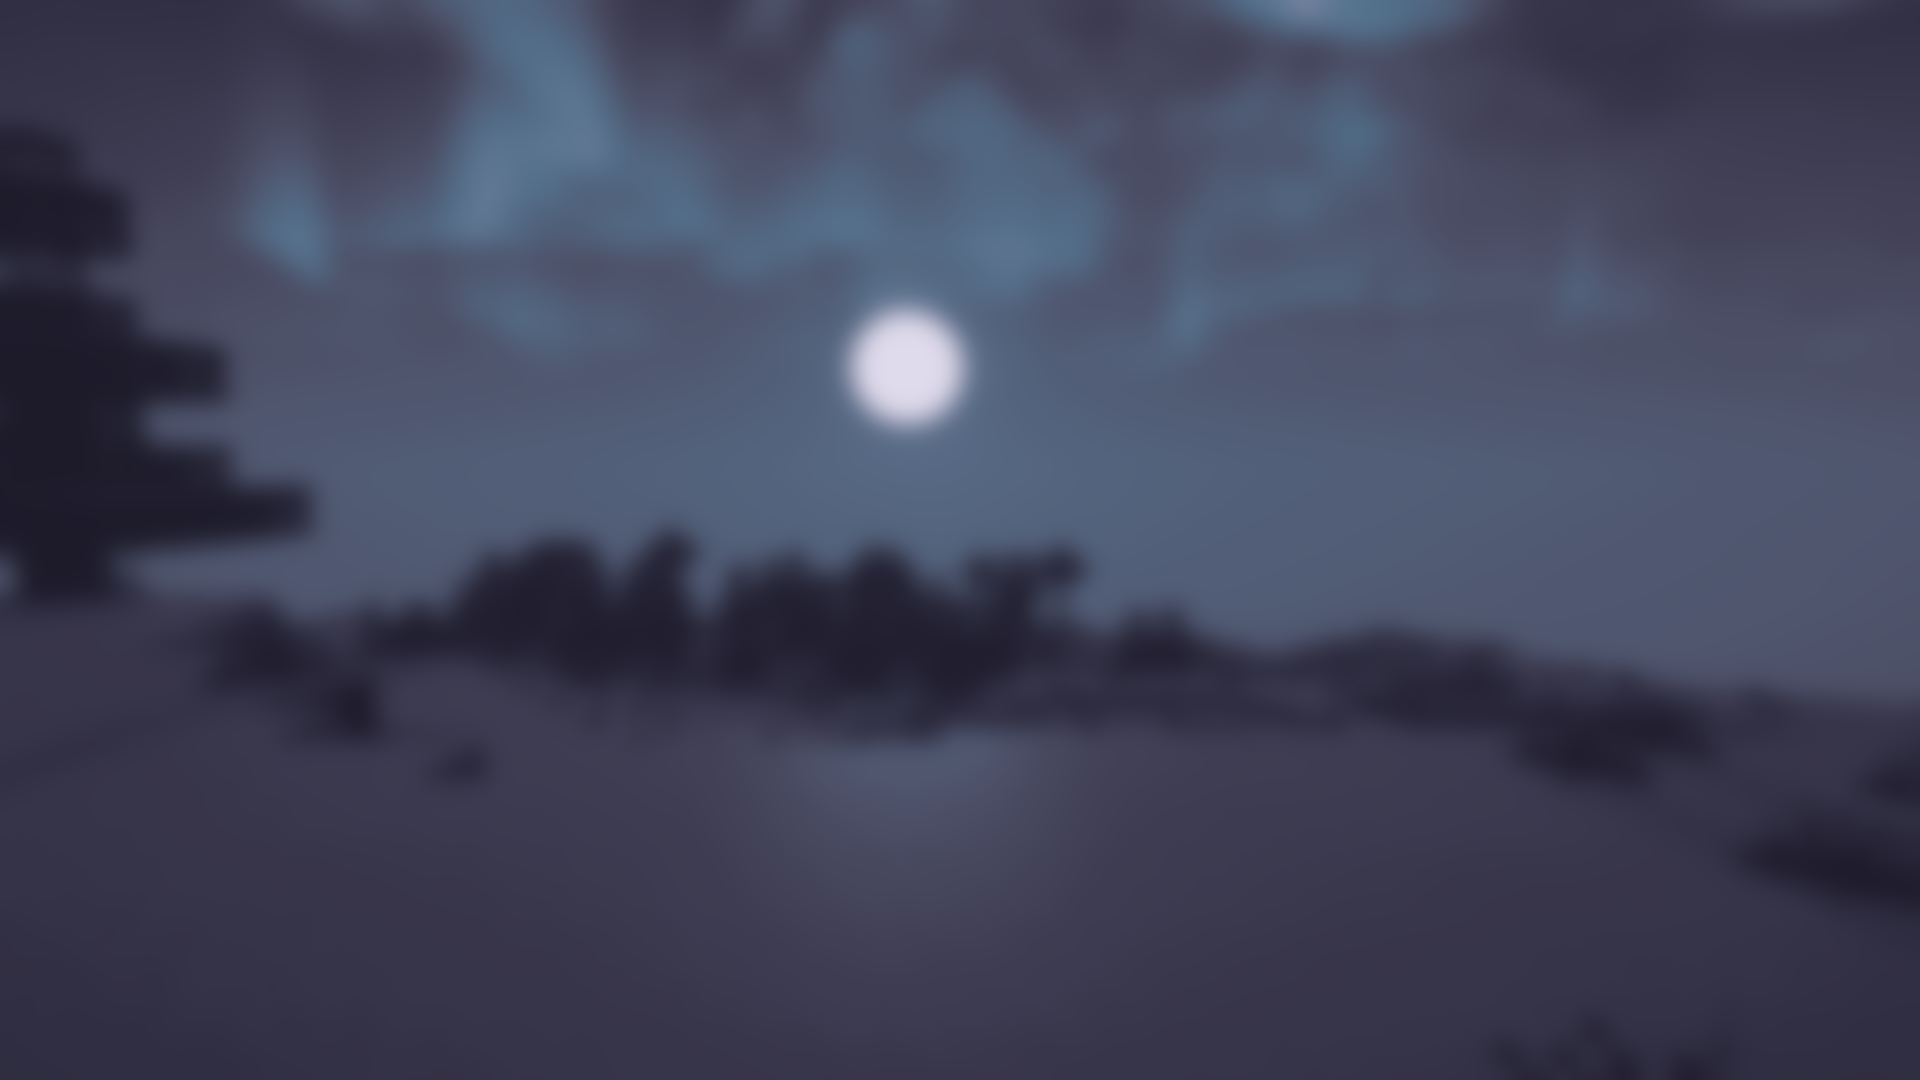
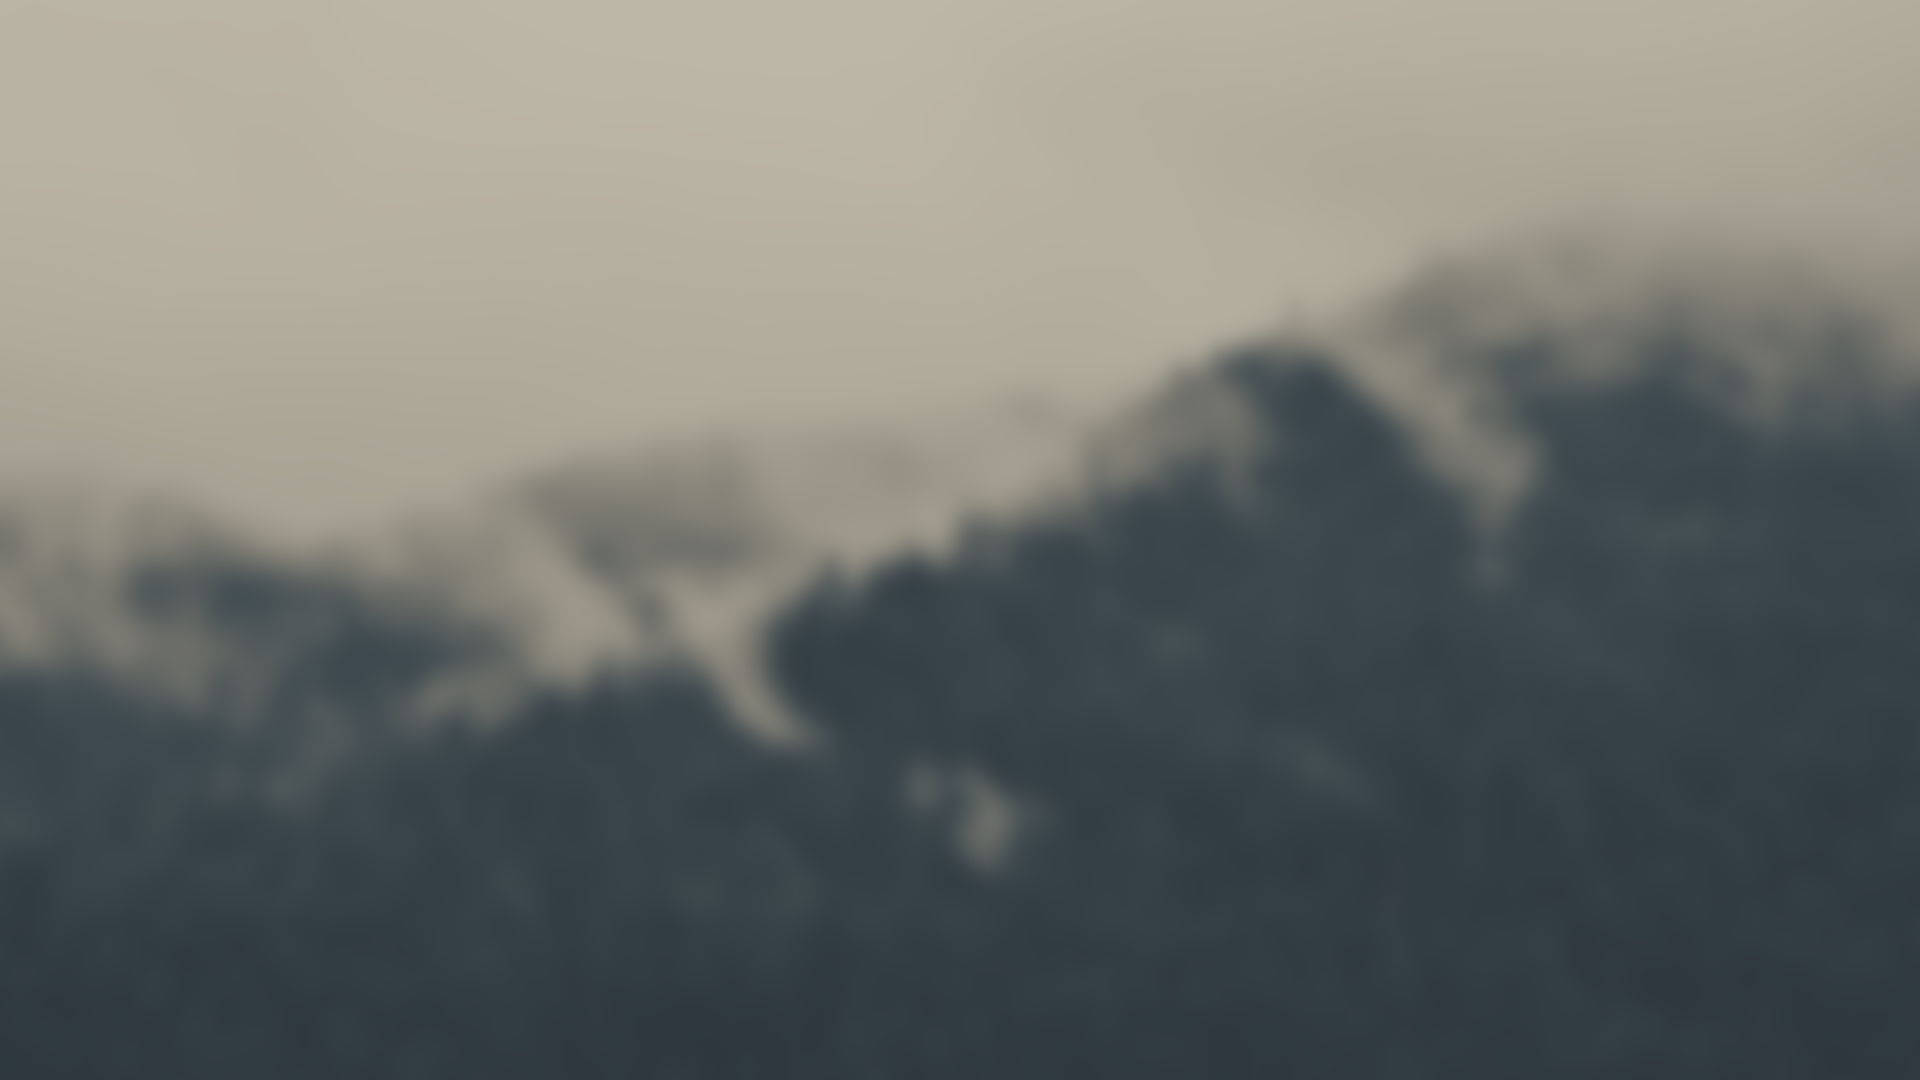
Fixed typo

diff --git a/home/dotfiles/themes/current_theme/swaync.css b/home/dotfiles/themes/current_theme/swaync.css
@@ -1,9 +1,9 @@
 /* --- Variables & Core Reset --- */
 :root {
-  --background: rgba(18, 17, 20, 0.85);
+  --background: rgba(0, 1, 2, 0.85);
   --text-color: #eeeeee;
   --border-radius: 5px;
-  --accent-color: #E7E7EF;
+  --accent-color: #E8E5E0;
   --icon-size: 24px;
 }
 

diff --git a/home/dotfiles/themes/current_theme/waybar.css b/home/dotfiles/themes/current_theme/waybar.css
@@ -20,7 +20,7 @@ window#waybar.empty #window {
 
 /* --- Tooltips --- */
 tooltip {
-  background: rgba(18, 17, 20, 0.80);
+  background: rgba(0, 1, 2, 0.80);
   border-radius: 7px;
   border-width: 2px;
   border-style: solid;
@@ -77,7 +77,7 @@ tooltip label {
 /* --- Module Colors & States --- */
 
 #custom-arch_logo {
-  color: rgba(231, 231, 239, 1.00);
+  color: rgba(232, 229, 224, 1.00);
 }
 
 #pulseaudio.output {

diff --git a/home/dotfiles/themes/current_theme/wlogout.css b/home/dotfiles/themes/current_theme/wlogout.css
@@ -23,7 +23,7 @@ button {
 }
 
 button:hover {
-  background-color: rgba(212, 213, 223, 0.6);
+  background-color: rgba(213, 210, 202, 0.6);
   background-size: 25%;
   transition: background-color 0.3s ease;
 }